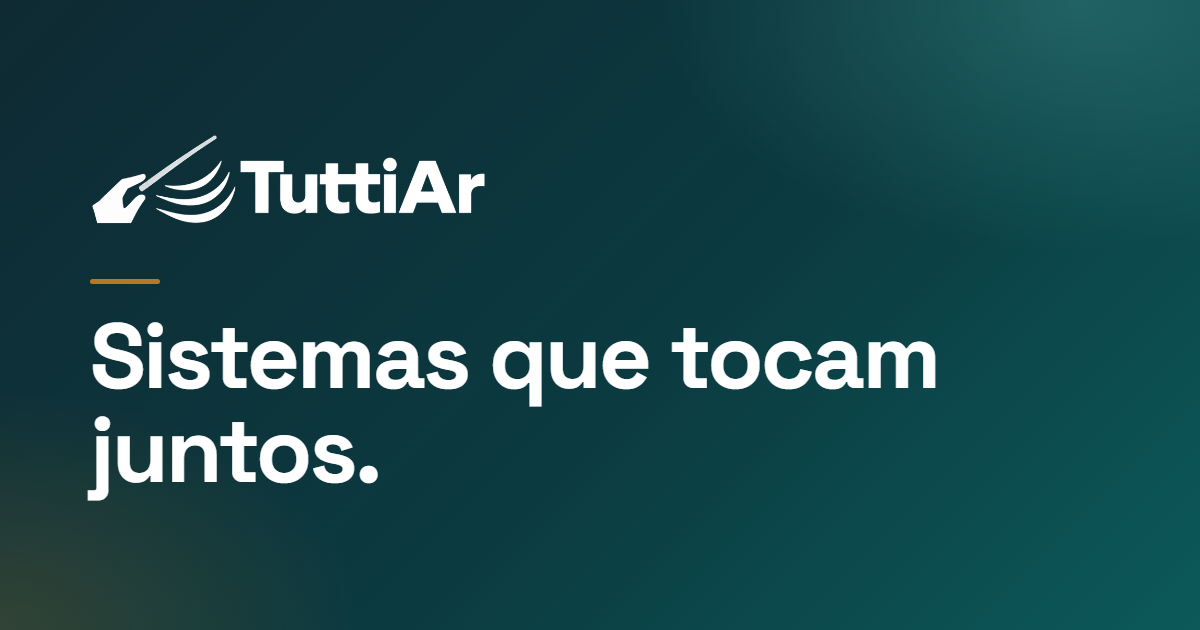
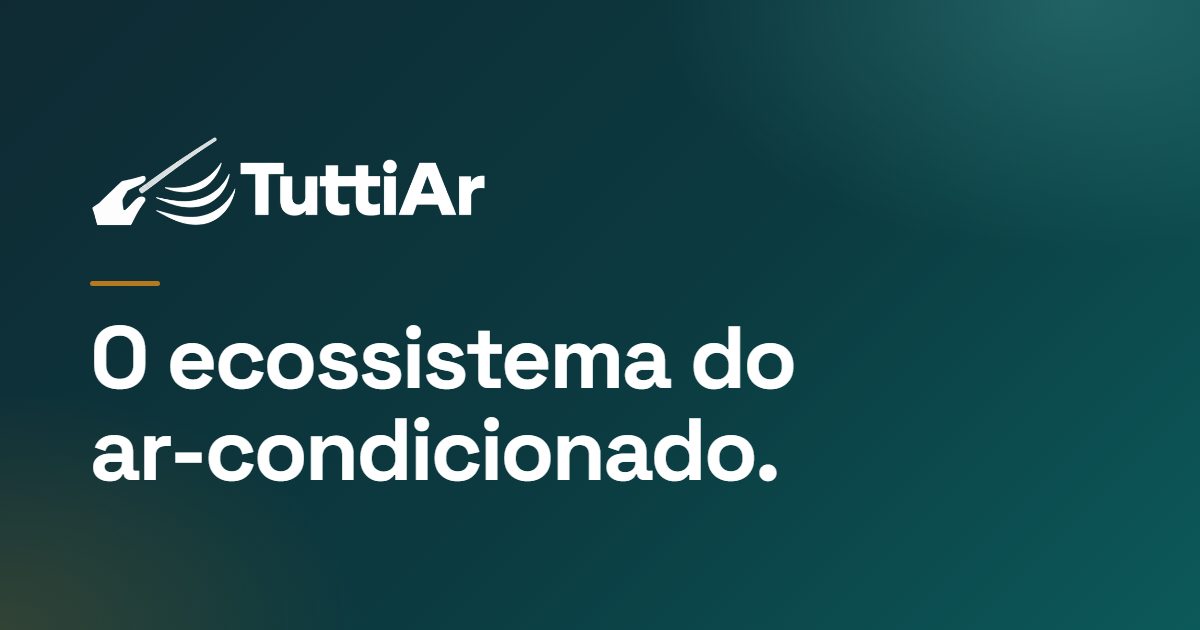
Título: O ecossistema do ar-condicionado; texto sem a palavra ecossistema

diff --git a/index.html b/index.html
@@ -3,7 +3,7 @@
 <head>
 <meta charset="utf-8">
 <meta name="viewport" content="width=device-width, initial-scale=1">
-<title>TuttiAr — Sistemas que tocam juntos</title>
+<title>TuttiAr — O ecossistema do ar-condicionado</title>
 <meta name="description" content="Tecnologia e conhecimento para quem trabalha com ar-condicionado e refrigeração. Conheça VRFlash, Ordem do Ar, Bruxo do Ar e CalculaAr.">
 <link rel="canonical" href="https://tuttiar.com.br/">
 <meta name="robots" content="index, follow">
@@ -14,15 +14,15 @@
 <meta property="og:type" content="website">
 <meta property="og:locale" content="pt_BR">
 <meta property="og:site_name" content="TuttiAr">
-<meta property="og:title" content="TuttiAr — Sistemas que tocam juntos">
+<meta property="og:title" content="TuttiAr — O ecossistema do ar-condicionado">
 <meta property="og:description" content="Tecnologia e conhecimento para quem trabalha com ar-condicionado e refrigeração. Conheça VRFlash, Ordem do Ar, Bruxo do Ar e CalculaAr.">
 <meta property="og:url" content="https://tuttiar.com.br/">
 <meta property="og:image" content="https://tuttiar.com.br/assets/og-image.png">
 <meta property="og:image:width" content="1200">
 <meta property="og:image:height" content="630">
-<meta property="og:image:alt" content="TuttiAr: sistemas que tocam juntos">
+<meta property="og:image:alt" content="TuttiAr: o ecossistema do ar-condicionado">
 <meta name="twitter:card" content="summary_large_image">
-<meta name="twitter:title" content="TuttiAr — Sistemas que tocam juntos">
+<meta name="twitter:title" content="TuttiAr — O ecossistema do ar-condicionado">
 <meta name="twitter:description" content="Tecnologia e conhecimento para quem trabalha com ar-condicionado e refrigeração.">
 <meta name="twitter:image" content="https://tuttiar.com.br/assets/og-image.png">
 
@@ -33,7 +33,7 @@
   "name": "TuttiAr",
   "url": "https://tuttiar.com.br/",
   "logo": "https://tuttiar.com.br/assets/logo-512.png",
-  "slogan": "Sistemas que tocam juntos.",
+  "slogan": "O ecossistema do ar-condicionado.",
   "description": "Tecnologia e conhecimento para quem trabalha com ar-condicionado e refrigeração.",
   "sameAs": [
     "https://www.vrflash.com.br",
@@ -76,7 +76,7 @@
   .logo img{height:46px;width:auto;display:block}
   .hero-body{position:relative;padding:72px 0 96px;max-width:760px}
   .rule{height:4px;width:56px;background:var(--brass);border-radius:2px;margin-bottom:26px}
-  h1{font-weight:700;line-height:1.02;font-size:clamp(44px,8vw,92px);max-width:11ch}
+  h1{font-weight:700;line-height:1.02;font-size:clamp(40px,7vw,84px);max-width:15ch}
   .lead{font-size:clamp(17px,2.2vw,21px);color:#cfe3e1;max-width:56ch;margin:26px 0 0}
   .btn{display:inline-block;margin-top:34px;background:var(--brass);color:#1b1305;text-decoration:none;font:600 15px var(--body);padding:15px 24px;border-radius:12px;transition:transform .18s,filter .18s}
   .btn:hover{transform:translateY(-2px);filter:brightness(1.08)}
@@ -165,8 +165,8 @@
     </header>
     <div class="hero-body">
       <div class="rule"></div>
-      <h1>Sistemas que tocam juntos.</h1>
-      <p class="lead">A TuttiAr é um ecossistema que reúne as marcas e plataformas de tecnologia e conhecimento integrado, tudo num lugar só, para quem trabalha com ar-condicionado e refrigeração. Do diagnóstico ao dimensionamento, do treinamento à carreira: ferramentas feitas por quem vive o campo.</p>
+      <h1>O ecossistema do <span style="white-space:nowrap">ar-condicionado.</span></h1>
+      <p class="lead">A TuttiAr reúne as marcas e plataformas de tecnologia e conhecimento integrado, tudo num lugar só, para quem trabalha com ar-condicionado e refrigeração. Do diagnóstico ao dimensionamento, do treinamento à carreira: ferramentas feitas por quem vive o campo.</p>
       <a class="btn" href="#marcas">Conhecer as marcas</a>
     </div>
   </div>
